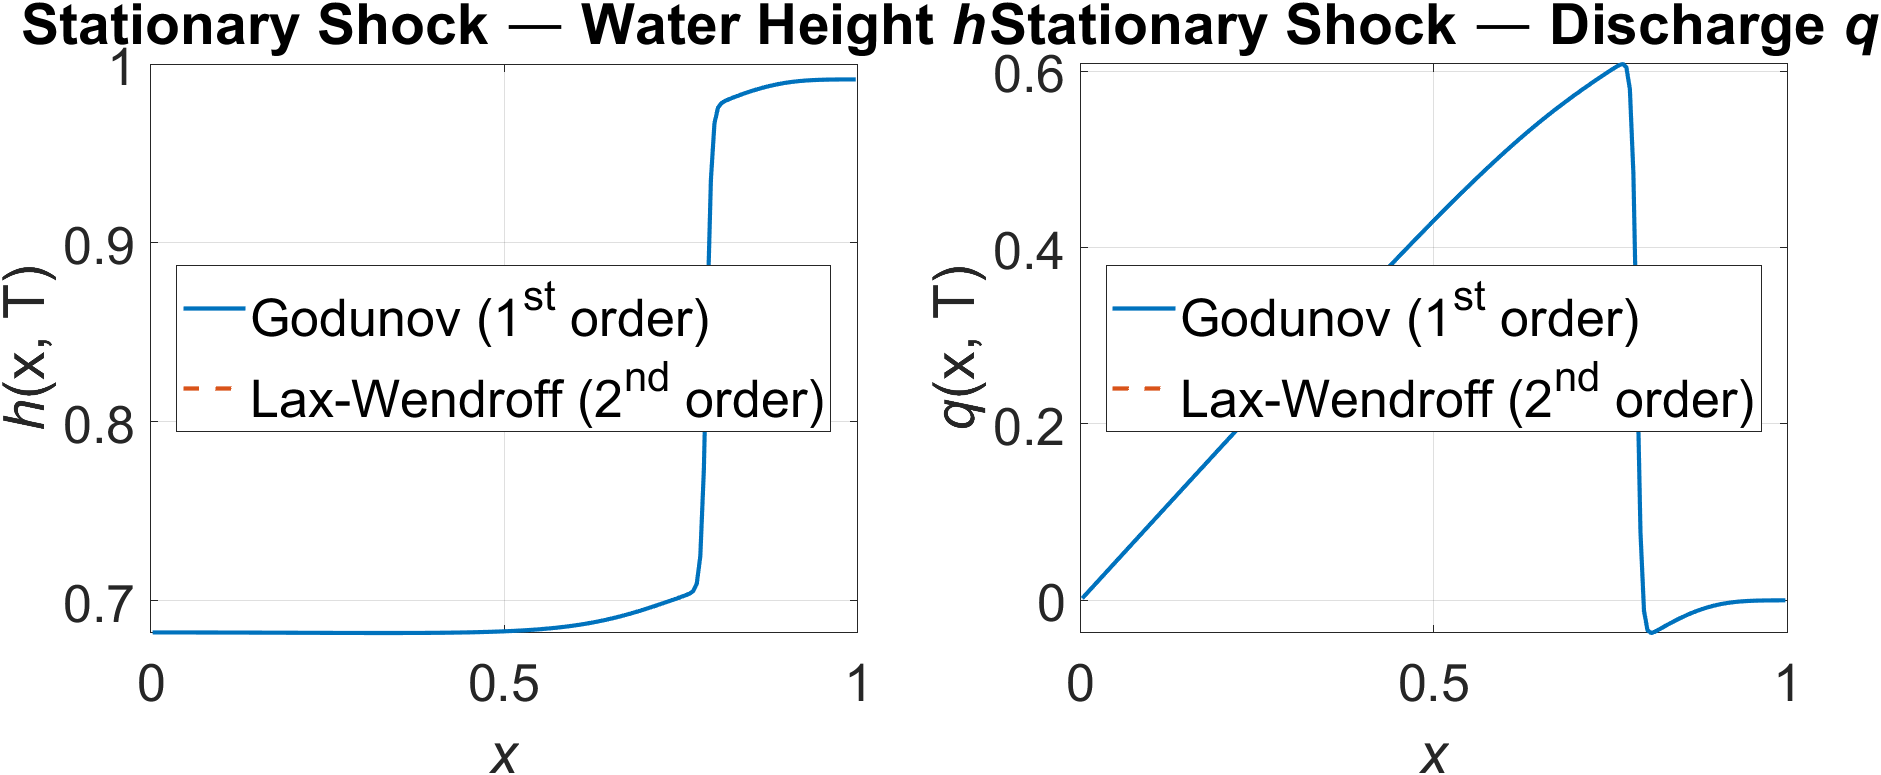
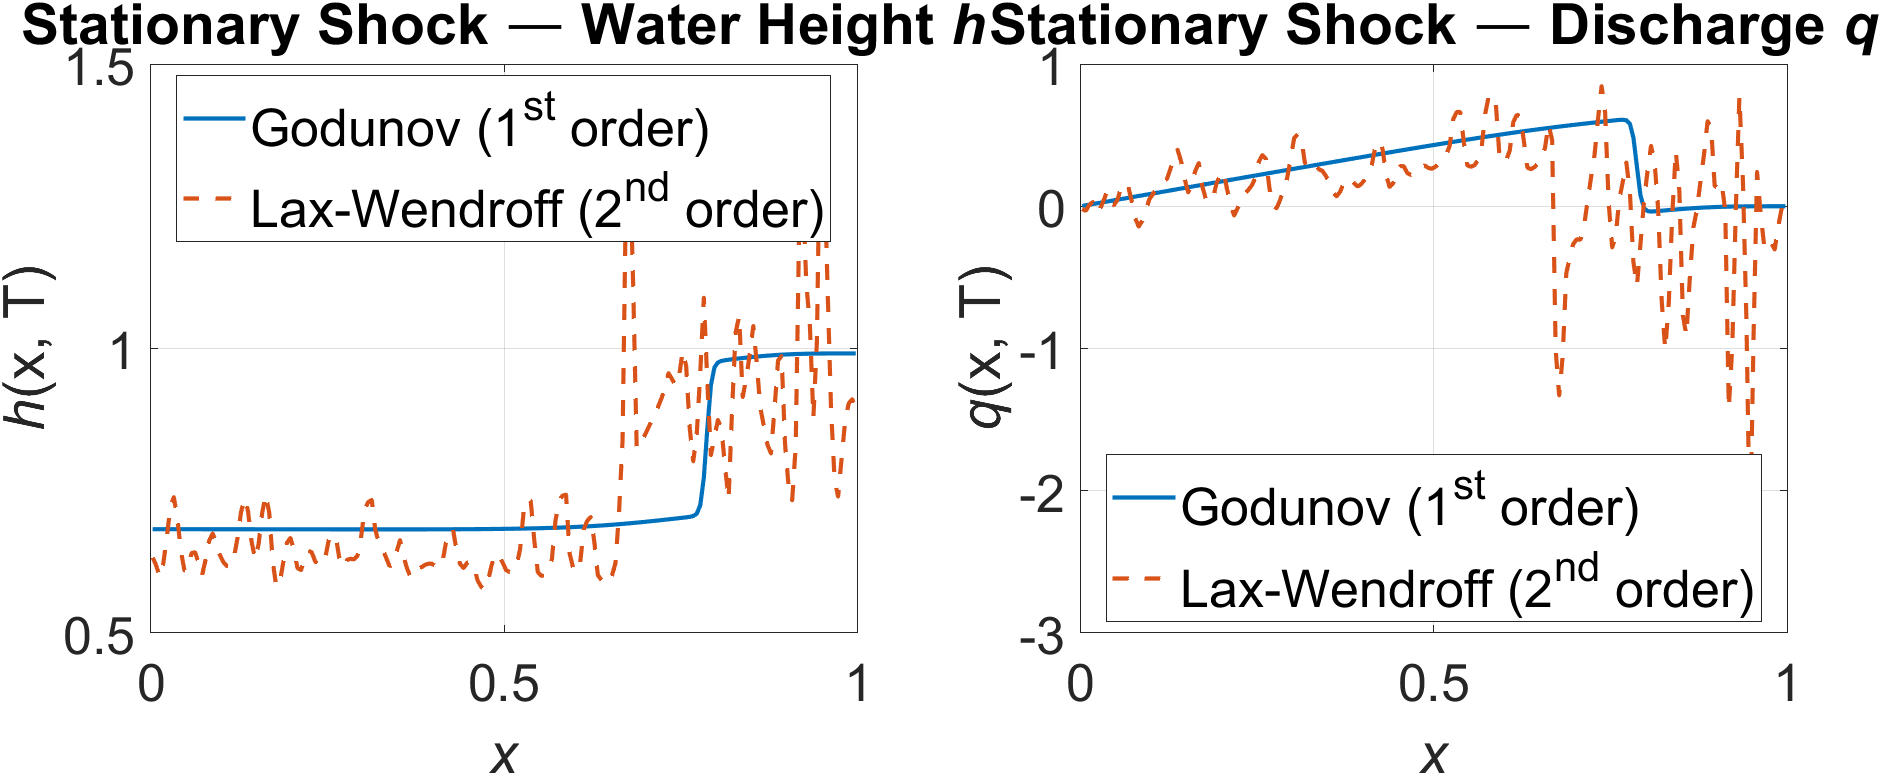
Secondo output

diff --git a/Homeworks/HW3/Codes/MainFVM.m b/Homeworks/HW3/Codes/MainFVM.m
@@ -4,23 +4,20 @@
 % Solves:  U_t + F(U)_x = 0
 %   U = [h; q],   F(U) = [q; q^2/h + 0.5*g*h^2]
 %
-% on the domain [x0, xL] with REFLECTING WALL boundary conditions
-% (q = 0 at both walls) enforced via ghost cells.
+% Boundary conditions: REFLECTING WALL enforced via ghost cells.
+% Time integration:    explicit Forward Euler, adaptive CFL-based dt.
+% Spatial scheme:      FVM on a uniform grid of M cells.
 %
-% Time integration: explicit Forward Euler with adaptive CFL-based dt.
-% Spatial discretization: FVM on a uniform grid of M cells.
+% LaxWendroffFlux requires 4 inputs (MUSCL-minmod): U_{i-1}, U_i, U_{i+1},
+% U_{i+2}. MainFVM builds a 2-layer ghost-cell extension (M+4 columns) so
+% that boundary interfaces can also access the second neighbor.
 %
 % INPUT:
 %   Data    (struct)  test case parameters — see DataTest.m
 %   scheme  (char)    'godunov' or 'laxwendroff'
 %
 % OUTPUT:
-%   Solutions (struct) with fields:
-%     .x   (M x 1) cell-center coordinates
-%     .h   (M x 1) water height  at time T
-%     .q   (M x 1) discharge     at time T
-%     .u   (M x 1) velocity      at time T  (= q/h)
-%     .t   (scalar) actual final time reached
+%   Solutions (struct):  .x  .h  .q  .u  .t
 
 function Solutions = MainFVM(Data, scheme)
 
@@ -29,7 +26,7 @@ fprintf('Test: %s  |  Scheme: %s  |  M = %d  |  CFL = %.2f\n', ...
         Data.name, scheme, Data.M, Data.CFL);
 
 %==========================================================================
-% 1. GRID CONSTRUCTION
+% 1. GRID
 %==========================================================================
 x0 = Data.domain(1);
 xL = Data.domain(2);
@@ -37,117 +34,129 @@ M  = Data.M;
 g  = Data.g;
 
 dx = (xL - x0) / M;
-x  = (x0 + dx/2 : dx : xL - dx/2)';   % cell centers, M x 1
-
-% Minimum depth threshold for wet/dry treatment
-h_dry = 1e-6;
+x  = (x0 + dx/2 : dx : xL - dx/2)';   % cell centres, M x 1
 
 %==========================================================================
-% 2. INITIAL CONDITIONS  (state matrix U is 2 x M)
+% 2. INITIAL CONDITIONS
 %==========================================================================
 U = zeros(2, M);
-U(1,:) = Data.h0(x)';   % row 1: h
-U(2,:) = Data.q0(x)';   % row 2: q
+U(1,:) = Data.h0(x)';
+U(2,:) = Data.q0(x)';
 
 %==========================================================================
-% 3. TIME LOOP — explicit, adaptive dt
+% 3. TIME LOOP
 %==========================================================================
+h_dry    = 1e-6;      % cells below this depth are treated as dry
 t        = 0;
 iter     = 0;
-max_iter = 2e6;   % hard safety cap
+max_iter = 10000;     % ~700 steps expected for M=200,CFL=0.9,T=1
 
-while t < Data.T
+while t < Data.T * (1 - 1e-12)
 
     iter = iter + 1;
     if iter > max_iter
-        warning('MainFVM: max iterations (%d) reached. Stopping at t = %.6f.', ...
-                max_iter, t);
+        warning('MainFVM: max iterations (%d) at t = %.6f. Stopping.', max_iter, t);
         break
     end
 
     %----------------------------------------------------------------------
-    % WET/DRY TREATMENT — applied first, every step.
-    %
-    % Root cause of infinite loop: after the FVM update, h can go slightly
-    % negative near shocks (Lax-Wendroff) or dry fronts. Clamping h to 0
-    % but leaving q untouched means u = q/h_clamped ~ q/eps -> enormous
-    % velocity -> c_max ~ 1e16 -> dt ~ 1e-19 -> t never reaches T.
-    %
-    % Fix: zero out BOTH h and q on any cell where h < h_dry.
+    % 3a. Dry-cell treatment: zero BOTH h and q below h_dry
+    %     (avoids u = q/h ~ q/0 -> Inf -> NaN in c_max)
     %----------------------------------------------------------------------
     dry       = U(1,:) < h_dry;
-    U(1, dry) = 0;
-    U(2, dry) = 0;
+    U(1,dry)  = 0;
+    U(2,dry)  = 0;
 
     %----------------------------------------------------------------------
-    % 3a. Adaptive dt from CFL condition
+    % 3b. Adaptive dt from CFL condition
     %----------------------------------------------------------------------
-    h_cells = max(U(1,:), eps);
-    u_cells = U(2,:) ./ h_cells;
-    c_cells = sqrt(g .* h_cells);
-    c_max   = max(abs(u_cells) + c_cells);
+    h_safe = max(U(1,:), eps);
+    c_max  = max(abs(U(2,:) ./ h_safe) + sqrt(g .* h_safe));
 
-    % Guard: if c_max is not finite, something exploded upstream
     if ~isfinite(c_max) || c_max < eps
-        warning('MainFVM: c_max = %g at t = %.6f (iter %d). Stopping early.', ...
+        warning('MainFVM: c_max = %g at t = %.6f (iter %d). Stopping.', ...
                 c_max, t, iter);
         break
     end
 
     dt = Data.CFL * dx / c_max;
-    dt = min(dt, Data.T - t);   % clip last step to land exactly at T
+    dt = min(dt, Data.T - t);
+
+    if dt < 1e-14
+        t = Data.T;
+        break
+    end
 
     %----------------------------------------------------------------------
-    % 3b. Ghost cells for reflecting wall BC  (2 x (M+2) extended array)
-    %     Left  ghost (col 1):   h mirrored,  q negated
-    %     Right ghost (col M+2): h mirrored,  q negated
+    % 3c. Build extended array with TWO ghost layers on each side (M+4)
+    %
+    %     Layout:  [ g2 | g1 | cell_1 ... cell_M | g1 | g2 ]
+    %     Index:     1     2    3          M+2     M+3   M+4
+    %
+    %     Reflecting wall:  h_ghost = h_boundary,  q_ghost = -q_boundary
+    %     Both ghost layers use the same boundary value (zero-gradient
+    %     assumption for the second layer).
     %----------------------------------------------------------------------
-    U_ext = [ U(1,1),  U(1,:), U(1,M);
-             -U(2,1),  U(2,:), -U(2,M) ];
+    U_ext = zeros(2, M + 4);
+    U_ext(:, 3:M+2) = U;                          % interior
+
+    % Left ghosts (cols 2 and 1)
+    U_ext(1,2) =  U(1,1);   U_ext(2,2) = -U(2,1);
+    U_ext(1,1) =  U(1,1);   U_ext(2,1) = -U(2,1);
+
+    % Right ghosts (cols M+3 and M+4)
+    U_ext(1,M+3) =  U(1,M);  U_ext(2,M+3) = -U(2,M);
+    U_ext(1,M+4) =  U(1,M);  U_ext(2,M+4) = -U(2,M);
 
     %----------------------------------------------------------------------
-    % 3c. Numerical fluxes at all M+1 interfaces
-    %     F_all(:,k) = flux between U_ext(:,k) and U_ext(:,k+1)
-    %     k=1   -> left boundary interface  (x_{1/2})
-    %     k=M+1 -> right boundary interface (x_{M+1/2})
+    % 3d. Numerical fluxes at all M+1 interfaces
+    %
+    %     Interface k (k = 1..M+1) lies between interior cells k-1 and k
+    %     (with cells 0 and M+1 being the first ghost layers).
+    %
+    %     In the extended array (interior starts at col 3):
+    %       U_LL = U_ext(:, k+1)   (i-1)
+    %       U_L  = U_ext(:, k+2)   (i  )
+    %       U_R  = U_ext(:, k+3)   (i+1)
+    %       U_RR = U_ext(:, k+4)   (i+2)
     %----------------------------------------------------------------------
     F_all = zeros(2, M+1);
 
     for k = 1 : M+1
-        UL = U_ext(:, k);
-        UR = U_ext(:, k+1);
+        ULL = U_ext(:, k);
+        UL  = U_ext(:, k+1);
+        UR  = U_ext(:, k+2);
+        URR = U_ext(:, k+3);
 
         switch scheme
             case 'godunov'
-                F_all(:, k) = GodunovFlux(UL, UR, g);
+                % Godunov only uses the two adjacent states
+                F_all(:,k) = GodunovFlux(UL, UR, g);
             case 'laxwendroff'
-                F_all(:, k) = LaxWendroffFlux(UL, UR, g);
+                % MUSCL-minmod needs all four neighbours
+                F_all(:,k) = LaxWendroffFlux(ULL, UL, UR, URR, g);
             otherwise
-                error('MainFVM: unknown scheme "%s". Use ''godunov'' or ''laxwendroff''.', scheme);
+                error('MainFVM: unknown scheme "%s".', scheme);
         end
     end
 
     %----------------------------------------------------------------------
-    % 3d. Conservative explicit update
-    %     U(:,i)^{n+1} = U(:,i)^n - (dt/dx) * ( F_{i+1/2} - F_{i-1/2} )
-    %     F_{i-1/2} = F_all(:, i)     (left  face of cell i)
-    %     F_{i+1/2} = F_all(:, i+1)   (right face of cell i)
+    % 3e. Conservative FVM update
     %----------------------------------------------------------------------
     U = U - (dt / dx) * (F_all(:, 2:M+1) - F_all(:, 1:M));
 
     %----------------------------------------------------------------------
-    % 3e. Advance time
+    % 3f. Advance time
     %----------------------------------------------------------------------
     t = t + dt;
 
 end
 
-fprintf('Reached t = %.6f  (target T = %.6f)  |  %d steps\n', ...
-        t, Data.T, iter);
+fprintf('Reached t = %.8f  (target T = %.6f)  |  %d steps\n', t, Data.T, iter);
 fprintf('============================================================\n');
 
 %==========================================================================
-% 4. PACK OUTPUT
+% 4. OUTPUT
 %==========================================================================
 Solutions.x = x;
 Solutions.h = U(1,:)';

diff --git a/Homeworks/HW3/Codes/Solvers/LaxWendroffFlux.m b/Homeworks/HW3/Codes/Solvers/LaxWendroffFlux.m
@@ -1,46 +1,75 @@
 % LaxWendroffFlux.m
-% Computes the 2nd-order numerical flux at a single interface x_{i+1/2}
-% using piecewise linear reconstruction (Lax-Wendroff approach) followed
-% by the Roe approximate Riemann solver.
+% Computes the 2nd-order numerical flux at interface x_{i+1/2} using the
+% MUSCL-Hancock scheme with the minmod slope limiter.
 %
-% Reconstruction formulas (as given in the HW3 assignment):
-%   U_{i+1/2}^-  =  U_i   + 0.5 * (U_{i+1} - U_i)
-%   U_{i+1/2}^+  =  U_{i+1} - 0.5 * (U_{i+1} - U_i)
+% THEORY:
+%   Pure Lax-Wendroff (no limiter) is known to produce spurious oscillations
+%   near shocks in nonlinear systems, leading to h < 0 and blow-up.
+%   The standard fix is to replace the fixed half-slope with a TVD-limited
+%   slope (minmod), which falls back to 1st-order (Godunov) near shocks and
+%   retains 2nd-order accuracy in smooth regions.
 %
-% The reconstructed states are then passed to GodunovFlux (Roe solver).
+%   The homework formula is recovered exactly when the solution is smooth:
+%     U_{i+1/2}^-  =  U_i   + 0.5*(U_{i+1} - U_i)
+%     U_{i+1/2}^+  =  U_{i+1} - 0.5*(U_{i+1} - U_i)
+%   The minmod limiter only clips the slope when it changes sign between
+%   adjacent cells (i.e. at a local extremum or near a shock).
 %
 % INPUT:
-%   U_L  (2x1)  left  cell average  U(:,i)    = [h_i;   q_i  ]
-%   U_R  (2x1)  right cell average  U(:,i+1)  = [h_i+1; q_i+1]
-%   g    (scalar) gravitational acceleration
+%   U_LL  (2x1)  U_{i-1}  — left  neighbor of cell i
+%   U_L   (2x1)  U_i      — left  cell  (cell i)
+%   U_R   (2x1)  U_{i+1}  — right cell  (cell i+1)
+%   U_RR  (2x1)  U_{i+2}  — right neighbor of cell i+1
+%   g     (scalar) gravitational acceleration
 %
 % OUTPUT:
-%   Fnum (2x1)  2nd-order numerical flux at the interface
+%   Fnum  (2x1)  2nd-order TVD flux at the interface
 
-function Fnum = LaxWendroffFlux(U_L, U_R, g)
-
-%--------------------------------------------------------------------------
-% Piecewise linear reconstruction at the interface
-%--------------------------------------------------------------------------
-dU = U_R - U_L;
-
-U_L_recon = U_L + 0.5 * dU;   % U_{i+1/2}^-  (left  side of interface)
-U_R_recon = U_R - 0.5 * dU;   % U_{i+1/2}^+  (right side of interface)
-
-% Positivity fix: the linear reconstruction can produce h < 0 near shocks.
-% Clamp h to zero and zero out q consistently to avoid NaN in the Roe solver.
-if U_L_recon(1) < 0
-    U_L_recon(1) = 0;
-    U_L_recon(2) = 0;
-end
-if U_R_recon(1) < 0
-    U_R_recon(1) = 0;
-    U_R_recon(2) = 0;
-end
+function Fnum = LaxWendroffFlux(U_LL, U_L, U_R, U_RR, g)
 
 %--------------------------------------------------------------------------
-% Compute numerical flux using the Roe solver on reconstructed states
+% Minmod-limited slopes for cell i (left) and cell i+1 (right)
+%--------------------------------------------------------------------------
+%   slope_L = minmod( U_i - U_{i-1},  U_{i+1} - U_i   )
+%   slope_R = minmod( U_{i+1} - U_i,  U_{i+2} - U_{i+1} )
+%--------------------------------------------------------------------------
+slope_L = minmod_vec(U_L  - U_LL,  U_R  - U_L);
+slope_R = minmod_vec(U_R  - U_L,   U_RR - U_R);
+
+%--------------------------------------------------------------------------
+% Reconstruct states at the interface
+%--------------------------------------------------------------------------
+U_L_recon = U_L + 0.5 * slope_L;   % U_{i+1/2}^-
+U_R_recon = U_R - 0.5 * slope_R;   % U_{i+1/2}^+
+
+%--------------------------------------------------------------------------
+% Ensure positivity of h in reconstructed states (backup safety)
+%--------------------------------------------------------------------------
+if U_L_recon(1) < 0,  U_L_recon(1) = 0;  U_L_recon(2) = 0;  end
+if U_R_recon(1) < 0,  U_R_recon(1) = 0;  U_R_recon(2) = 0;  end
+
+%--------------------------------------------------------------------------
+% Roe flux on reconstructed states
 %--------------------------------------------------------------------------
 Fnum = GodunovFlux(U_L_recon, U_R_recon, g);
 
+end
+
+%--------------------------------------------------------------------------
+% MINMOD LIMITER (component-wise)
+%   minmod(a, b) = 0   if sign(a) ~= sign(b)   (local extremum)
+%               = a    if |a| <= |b|             (a is less steep)
+%               = b    otherwise
+%--------------------------------------------------------------------------
+function s = minmod_vec(a, b)
+    s      = zeros(2, 1);
+    for i  = 1:2
+        if a(i) * b(i) <= 0
+            s(i) = 0;                               % opposite signs → zero slope
+        elseif abs(a(i)) <= abs(b(i))
+            s(i) = a(i);                            % left slope is gentler
+        else
+            s(i) = b(i);                            % right slope is gentler
+        end
+    end
 end
